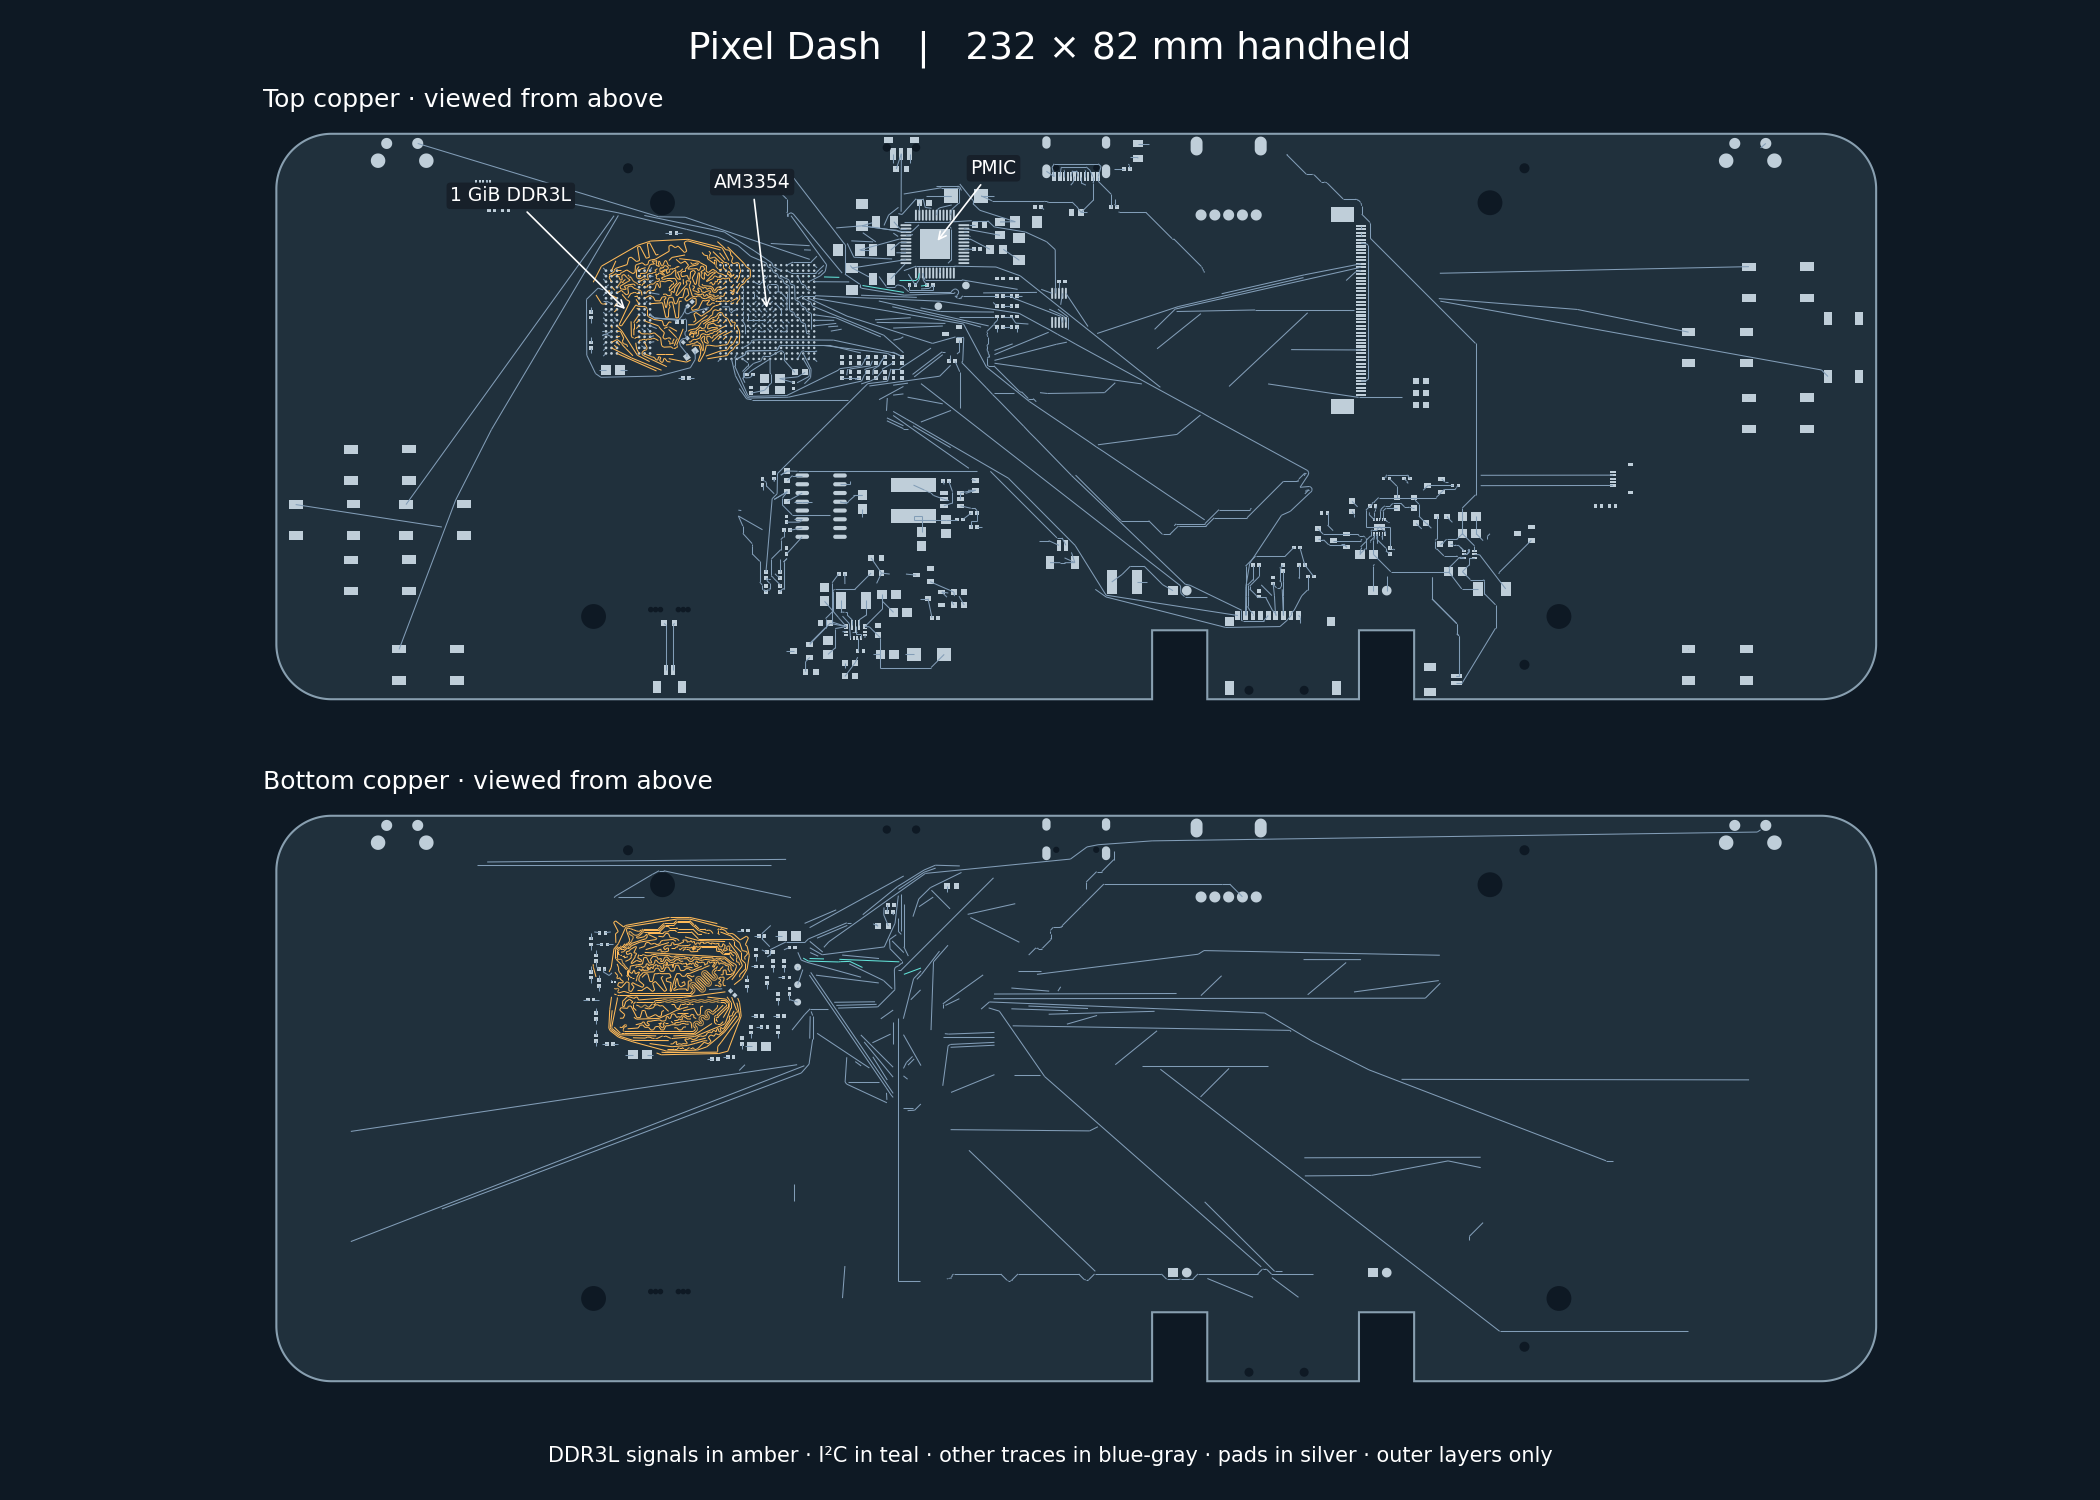
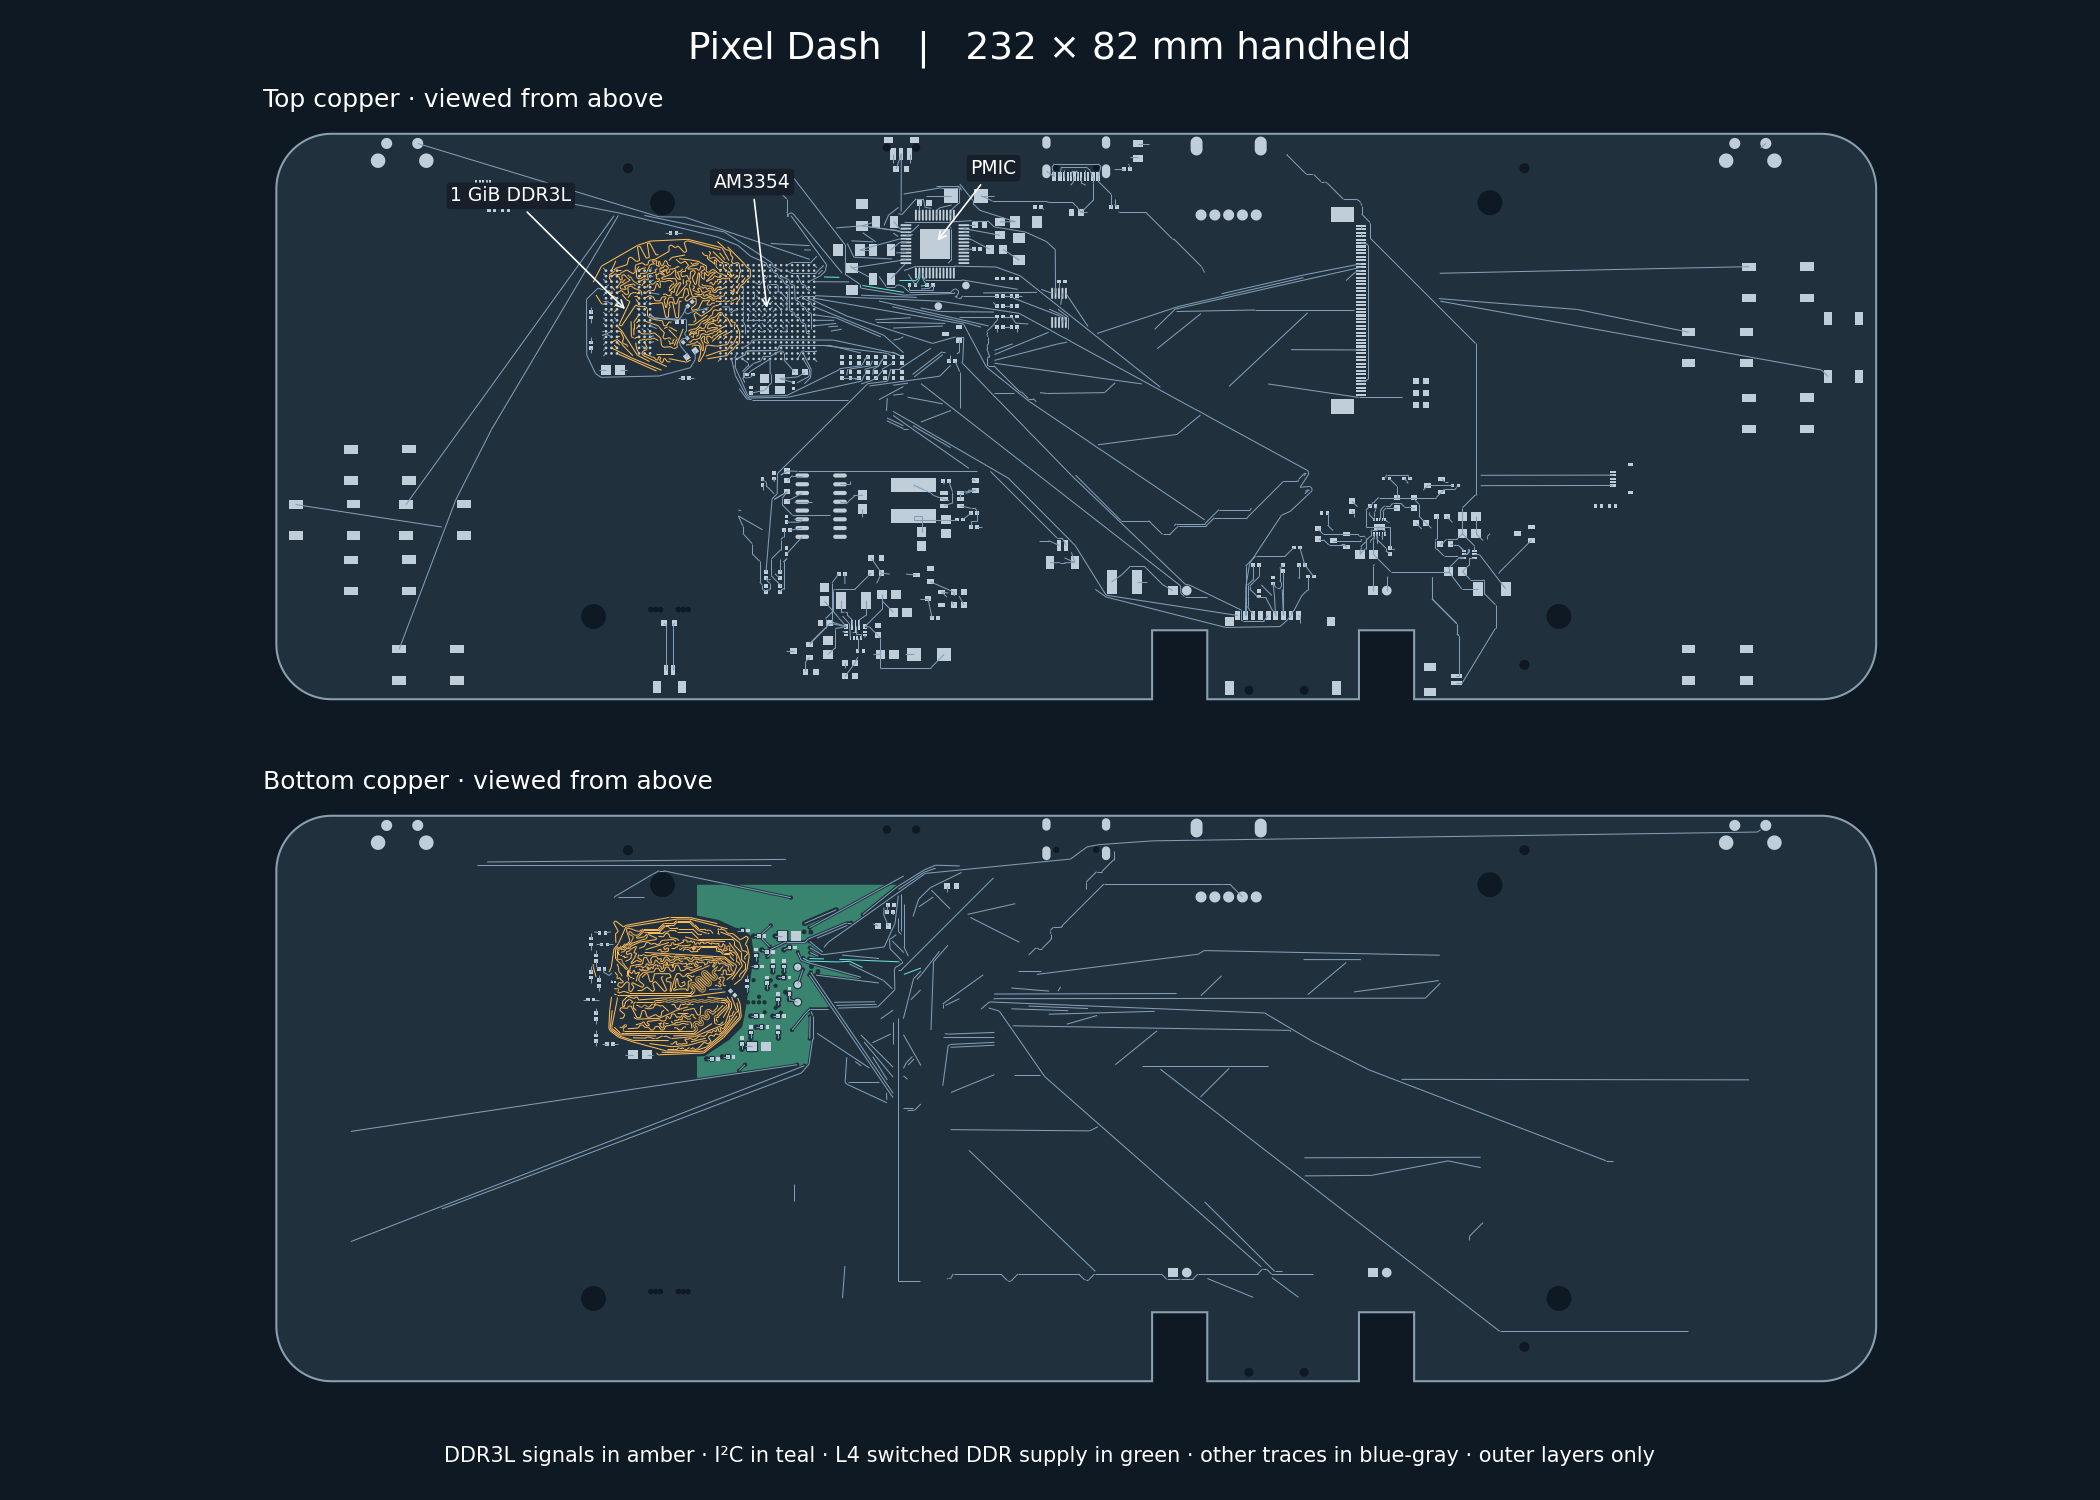
Reroute D12 and D14 together to clear SYSBOOT13 and SYSBOOT11

Changed region(s): [[0.2167, 0.9507, 0.7738, 0.9813], [0.3095, 0.5827, 0.4333, 0.736]]

diff --git a/README.md b/README.md
@@ -2,11 +2,11 @@
 
 ## Wide handheld checkpoint
 
-All 50 AM3354-to-DDR3L signals reach their intended balls on 50 distinct electrical nodes. The adjacent plane covers the full trace width for all 50 signals outside their own via launch antipads. The board-wide 0.102 mm unrelated-copper, 0.1524 mm via-edge and drill-spacing checks pass. Each of the 7,140 routed strokes matches the copper Gerbers, and all five drill files match the board.
+All 50 AM3354-to-DDR3L signals reach their intended balls on 50 distinct electrical nodes. The adjacent plane covers the full trace width for all 50 signals outside their own via launch antipads. The board-wide 0.102 mm unrelated-copper, 0.1524 mm via-edge and drill-spacing checks pass. Each of the 7,139 routed strokes matches the copper Gerbers, and all five drill files match the board.
 
-The L3 ground pour now clears the DDR island area before the exporter draws the supply copper. In older archives the final clear aperture erased the supply island. To verify a new export, install Gerbonara and Shapely 2 and run both `python checks/audit-ddr-reference-planes.py dist/index.circuit.json --full-width --gerbers engineering.zip` and `python checks/audit-ddr-keepout.py dist/index.circuit.json --envelope --gerbers engineering.zip`. The first check passes on all 50 DDR routes outside their own launches. The second measures the residual region gaps and three unrelated top traces in [the CAM findings](checks/current-ddr-cam-envelope.csv). The CPU VREF link formerly cut a 1.152 mm² slot through the L3 reference. Two through vias now carry the link across the outer layers. The 0.32 mm bottom section and both top escapes clear unrelated copper, and all three VREF bypass connections pass continuity. The Gerber polarity check uses the connected reference island, preserving flashed lands, clearance apertures and draw order.
+The L3 ground pour now clears the DDR island area before the exporter draws the supply copper. In older archives the final clear aperture erased the supply island. To verify a new export, install Gerbonara and Shapely 2 and run both `python checks/audit-ddr-reference-planes.py dist/index.circuit.json --full-width --gerbers engineering.zip` and `python checks/audit-ddr-keepout.py dist/index.circuit.json --envelope --gerbers engineering.zip`. The first check passes on all 50 DDR routes outside their own launches. The second measures the residual region gaps and one unrelated top trace in [the CAM findings](checks/current-ddr-cam-envelope.csv). The CPU VREF link formerly cut a 1.152 mm² slot through the L3 reference. Two through vias now carry the link across the outer layers. The 0.32 mm bottom section and both top escapes clear unrelated copper, and all three VREF bypass connections pass continuity. The Gerber polarity check uses the connected reference island, preserving flashed lands, clearance apertures and draw order.
 
-TI Table 7-63 also specifies a setback around the entire DDR routing region. Run `python checks/audit-ddr-keepout.py dist/index.circuit.json --envelope` to screen the convex hull of the DDR signal copper and RAM lands. Three top-layer trace objects enter this envelope or its four-width margin. After narrowing the D2 and R1 RAM supply escape links to 0.165 mm, direct 512-segment-per-quadrant relief circles bound the remaining reconstructed CAM area outside nominal antipads to 0.000000004 mm² on L2 and 0.000000003 mm² on L3 (values rounded to nine decimals). Both are below the existing 0.000001 mm² screen. The three top-layer perimeter findings remain. The convex hull is a candidate engineering boundary. [TI AM335x datasheet, section 7.7.2.3.3.5](https://www.ti.com/lit/ds/symlink/am3354.pdf)
+TI Table 7-63 also specifies a setback around the entire DDR routing region. Run `python checks/audit-ddr-keepout.py dist/index.circuit.json --envelope` to screen the convex hull of the DDR signal copper and RAM lands. The SYSBOOT11 and SYSBOOT13 copper clears the region after rerouting the D12 and D14 trunks together at their existing plated transitions. The left joystick click signal still enters the four-width margin. After narrowing the D2 and R1 RAM supply escape links to 0.165 mm, direct 512-segment-per-quadrant relief circles bound the remaining reconstructed CAM area outside nominal antipads to 0.000000004 mm² on L2 and 0.000000003 mm² on L3 (values rounded to nine decimals). Both are below the existing 0.000001 mm² screen. The joystick trace accounts for the one remaining perimeter finding. The convex hull is a candidate engineering boundary. [TI AM335x datasheet, section 7.7.2.3.3.5](https://www.ti.com/lit/ds/symlink/am3354.pdf)
 
 The AM3354 ZCZ IBIS model includes all 50 routed signal balls in its package pin list and provides 1.35 V choices for each associated selector. Reproduce the pin check with `python checks/check-ddr-pinmap.py dist/index.circuit.json --ti-ibis sprm552c.ibs`. TI's model notes flag validation status and warn that some selector choices are invalid for particular pins. Drive, termination and slew choices must agree with the device configuration before waveform simulation. [TI ZCZ IBIS archive, SPRM552C](https://www.ti.com/lit/zip/SPRM552)
 
@@ -38,7 +38,7 @@ The same CAM check audits DDR power separately from its 50 signal nets. TI Figur
 
 The native PCB checker and the independent same-net copper audit both clear the four corrected DDR bends. The local PMIC feedback, RTC switch and joystick ADC supply traces also clear their native endpoint checks. Whole-board opens and bus constraints remain.
 
-The byte-0 and byte-1 planar spreads measure 6.269 and 2.533 mm against the 0.635 mm limit. With 1.53 mm per full-depth transition the estimated spreads are 6.269 and 3.128 mm. Clock, DQS0 and DQS1 planar mismatch measures 0.095, 0.110 and 0.090 mm against 0.127 mm. A0 and A3 now measure 28.632 and 28.650 mm, inside the address/control window of 28.550 to 31.090 mm. A10 measures 32.773 mm and CKE measures 33.841 mm. D12 and D14 measure 25.043 and 24.365 mm against a 23.000 mm planar upper bound. D8 has four full-depth transitions and becomes the worst byte-1 signal when the provisional barrel depth is included. The provisional length screen that counts 1.53 mm per L1–L4 traversal places all 22 byte signals and all 27 clock/address/control signals above their nominal upper bounds. The uniform-line sensitivity calculation uses 5.884 ps/mm for isolated traces, 5.739 ps/mm for a nominal odd-mode pair, and 6.596 ps/mm for an illustrative homogeneous barrel dielectric with relative permittivity 3.91. With the observed via counts, byte-0 D7 and byte-1 D8 give the largest modeled data-to-strobe differences. Reproduce the two strobe scenarios with `checks/audit-lengths.py dist/index.circuit.json --through-span-mm 1.53 --delay-rates 5.884 5.739 6.596`. These scenarios omit package, launch and local field effects. An electrical delay model for the actual stackup, BGA launches and packages is still required. The engineering export contains 218 fitted references. The assembly orientation screen flags six references for review. The plated-span audit finds zero missing transitions. The four raster connector ground contacts reach L2. All 24 RGB888 source assignments follow TI SPRZ360 Figure 2; pixel clock, data enable, sync signals and reset have new source assignments. Remaining raster signals, panel bias and LED drivers, touch flex, system power, boot-strap copper and the fabrication package remain open.
+The byte-0 and byte-1 planar spreads measure 6.269 and 1.333 mm against the 0.635 mm limit. With 1.53 mm per full-depth transition the estimated spreads are 6.269 and 3.128 mm. Clock, DQS0 and DQS1 planar mismatch measures 0.095, 0.110 and 0.090 mm against 0.127 mm. A0 and A3 now measure 28.632 and 28.650 mm, inside the address/control window of 28.550 to 31.090 mm. A10 measures 32.773 mm and CKE measures 33.841 mm. D12 and D14 measure 23.843 and 23.459 mm against a 23.000 mm planar upper bound. D8 has four full-depth transitions and becomes the worst byte-1 signal when the provisional barrel depth is included. The provisional length screen that counts 1.53 mm per L1–L4 traversal places all 22 byte signals and all 27 clock/address/control signals above their nominal upper bounds. The uniform-line sensitivity calculation uses 5.884 ps/mm for isolated traces, 5.739 ps/mm for a nominal odd-mode pair, and 6.596 ps/mm for an illustrative homogeneous barrel dielectric with relative permittivity 3.91. With the observed via counts, byte-0 D7 and byte-1 D8 give the largest modeled data-to-strobe differences. Reproduce the two strobe scenarios with `checks/audit-lengths.py dist/index.circuit.json --through-span-mm 1.53 --delay-rates 5.884 5.739 6.596`. These scenarios omit package, launch and local field effects. An electrical delay model for the actual stackup, BGA launches and packages is still required. The engineering export contains 218 fitted references. The assembly orientation screen flags six references for review. The plated-span audit finds zero missing transitions. The four raster connector ground contacts reach L2. All 24 RGB888 source assignments follow TI SPRZ360 Figure 2; pixel clock, data enable, sync signals and reset have new source assignments. Remaining raster signals, panel bias and LED drivers, touch flex, system power, boot-strap copper and the fabrication package remain open.
 
 LCD_D11, D13, D14, D15 and the pixel clock now have continuous copper from the AM3354 to the display connector. All five pass the full-width adjacent ground check outside their own via antipads. Run `python checks/audit-ddr-reference-planes.py dist/index.circuit.json --raster --full-width` to reproduce the check. The physical connectivity audit finds 35 of 77 tracked handheld connections complete. Panel timing and power remain open.
 
